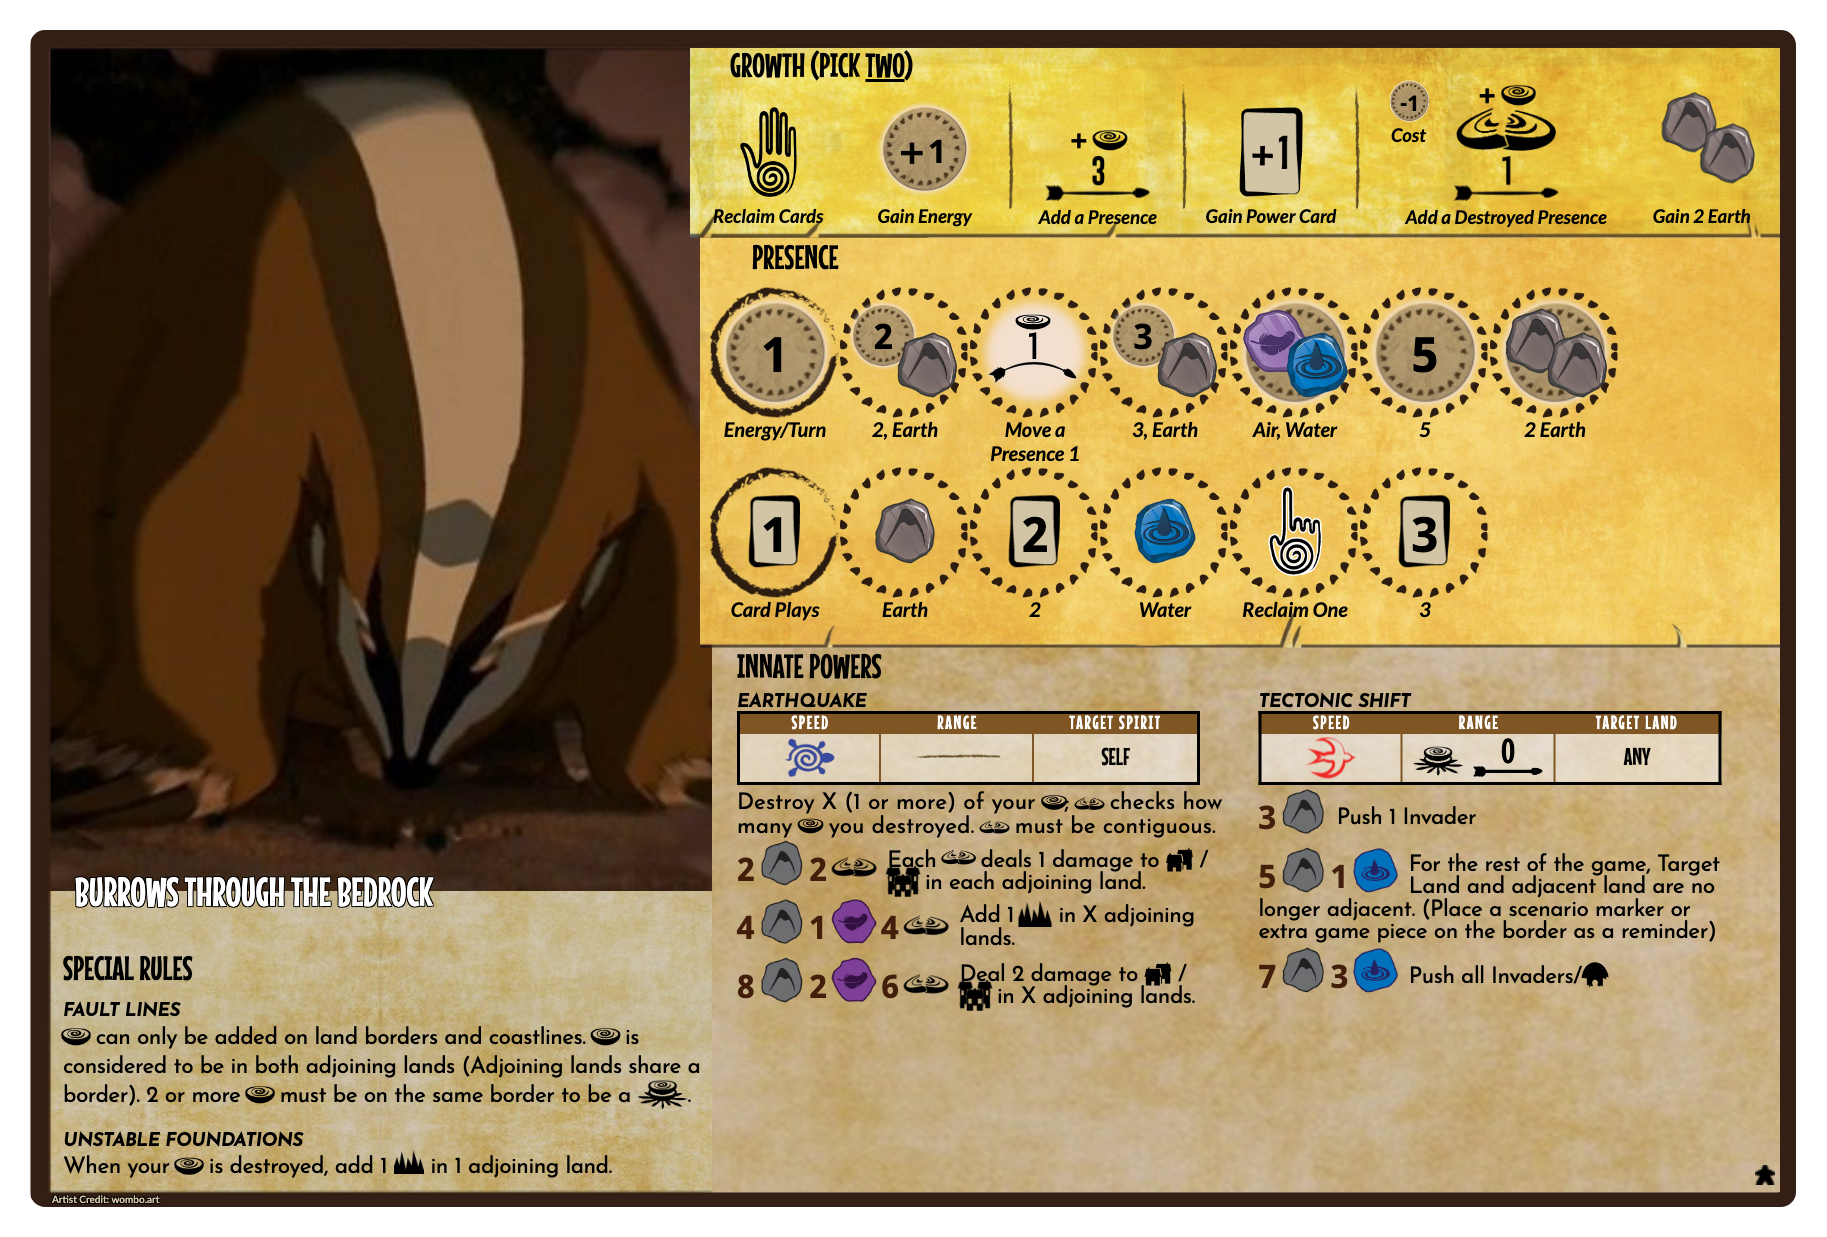
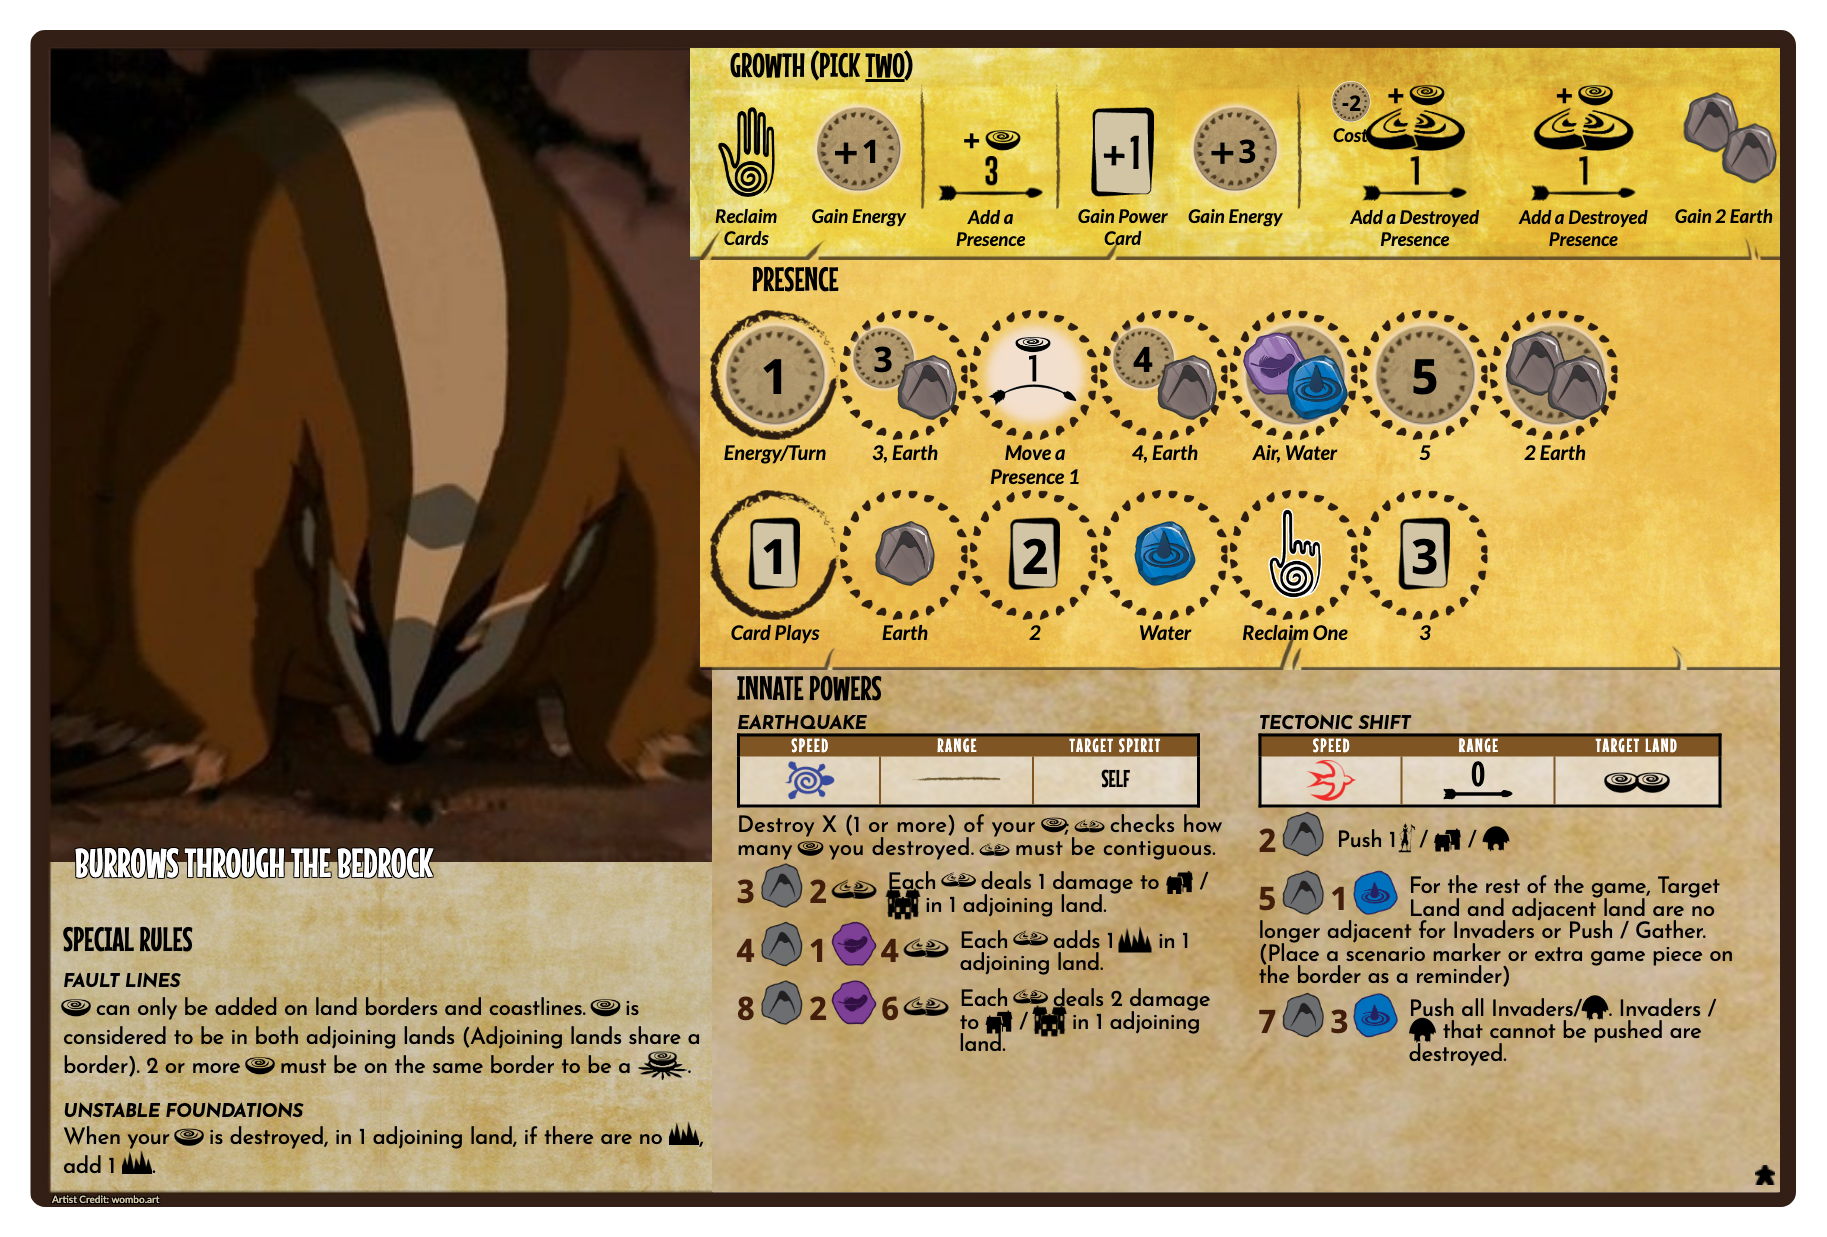
Updates to Burrow, add more art

diff --git a/shalin-hana-spirit/burrows-through-the-bedrock/board-front.html b/shalin-hana-spirit/burrows-through-the-bedrock/board-front.html
@@ -46,7 +46,7 @@
       </special-rule>
       <special-rules-subtitle>Unstable Foundations</special-rules-subtitle>
       <special-rule>
-        When your {presence} is destroyed, add 1 {badlands} in 1 adjoining land.
+        When your {presence} is destroyed, in 1 adjoining land, if there are no {badlands}, add 1 {badlands}.
       </special-rule>
     </special-rules-container>
 
@@ -63,14 +63,14 @@
       <growth title="Growth (Pick <u>Two</u>)">
         <growth-group values="reclaim;gain-energy(1)"></growth-group>
         <growth-group values="add-presence(3)"></growth-group>
-        <growth-group values="gain-power-card"></growth-group>
-        <growth-group cost="1" 
-        values="add-presence(1,text,,destroyed-presence);gain-element(earth,2)">
+        <growth-group values="gain-power-card;gain-energy(3)"></growth-group>
+        <growth-group cost="2" 
+        values="add-presence(1,text,,destroyed-presence);add-presence(1,text,,destroyed-presence);gain-element(earth,2)">
         </growth-group>
       </growth>
 
       <presence-tracks>
-        <energy-track banner="example2.png" banner-v-scale="50%" values="1,2+earth,move-presence(1),3+earth,air+water,5,earth+earth">
+        <energy-track banner="example2.png" banner-v-scale="50%" values="1,3+earth,move-presence(1),4+earth,air+water,5,earth+earth">
         </energy-track>
         <card-play-track banner="example2.png" banner-v-scale="50%" values="1,earth,2,water,reclaim-one,3">
         </card-play-track>
@@ -86,27 +86,27 @@
         speed="slow" range="none" target="Self" target-title="TARGET SPIRIT"
         note="Destroy X (1 or more) of your {presence}; {destroyed-presence} checks how many {presence}
         you destroyed. {destroyed-presence} must be contiguous.">
-          <level threshold="2-earth,2-destroyed-presence">
-            Each {destroyed-presence} deals 1 damage to {town} / {city} in each adjoining land.
+          <level threshold="3-earth,2-destroyed-presence">
+            Each {destroyed-presence} deals 1 damage to {town} / {city} in 1 adjoining land.
           </level>
           <level threshold="4-earth,1-air,4-destroyed-presence">
-            Add 1 {badlands} in X adjoining lands.
+            Each {destroyed-presence} adds 1 {badlands} in 1 adjoining land.
           </level>
           <level threshold="8-earth,2-air,6-destroyed-presence">
-            Deal 2 damage to {town} / {city} in X adjoining lands.
+            Each {destroyed-presence} deals 2 damage to {town} / {city} in 1 adjoining land.
           </level>
         </quick-innate-power>
         <quick-innate-power name="Tectonic Shift" 
-        speed="fast" range="sacred-site,0" target="ANY" target-title="TARGET LAND">
-          <level threshold="3-earth">
-            Push 1 Invader 
+        speed="fast" range="0" target="{presence} {presence}" target-title="TARGET LAND">
+          <level threshold="2-earth">
+            Push 1 {explorer} / {town} / {dahan} 
           </level>
           <level threshold="5-earth,1-water">
-            For the rest of the game, Target Land and adjacent land are no longer adjacent.
+            For the rest of the game, Target Land and adjacent land are no longer adjacent for Invaders or Push / Gather.
             (Place a scenario marker or extra game piece on the border as a reminder)
           </level>
           <level threshold="7-earth,3-water">
-            Push all Invaders/{dahan}
+            Push all Invaders/{dahan}. Invaders / {dahan} that cannot be pushed are destroyed.
           </level>
         </quick-innate-power>
       </innate-powers>

diff --git a/shalin-hana-spirit/burrows-through-the-bedrock/card-front.html b/shalin-hana-spirit/burrows-through-the-bedrock/card-front.html
@@ -9,7 +9,7 @@
 
 <body>
 
-  <quick-card speed="fast" cost="0" name="Rockalanche" image="fungal-warriors.jpg"
+  <quick-card speed="fast" cost="0" name="Rockalanche" image="rockalanche-cropped.jpeg"
     elements="sun,earth" range="mountain-presence,1" target="Any" target-title="TARGET LAND"
     artist-name="WOMBO">
     <rules>
@@ -24,7 +24,7 @@
     </rules>
   </quick-card>
 
-  <quick-card speed="slow" cost="3" name="Seismic Aftershocks" image="poisonous-lookalikes.jpg" 
+  <quick-card speed="slow" cost="3" name="Seismic Aftershocks" image="seismic-aftershocks-cropped.jpeg" 
     elements="earth,water,air" range="1" target="Any" target-title="TARGET LAND" artist-name="WOMBO">
     <rules>
       2 {fear}

diff --git a/shalin-hana-spirit/burrows-through-the-bedrock/board-lore.html b/shalin-hana-spirit/burrows-through-the-bedrock/board-lore.html
@@ -15,7 +15,7 @@
             Burrows Through the Bedrock
         </spirit-name>
         <lore-description>
-            TODO
+            Deep below the surface of the island a spirit keeps to itself. It keeps to itself and prefers to be left on alone. Once the invaders started digging into its realm, the spirit started wreaking havoc on their structures. The burrower cares little for what happens on the surface.
         </lore-description>
         <second-section-container>
             <setup>
